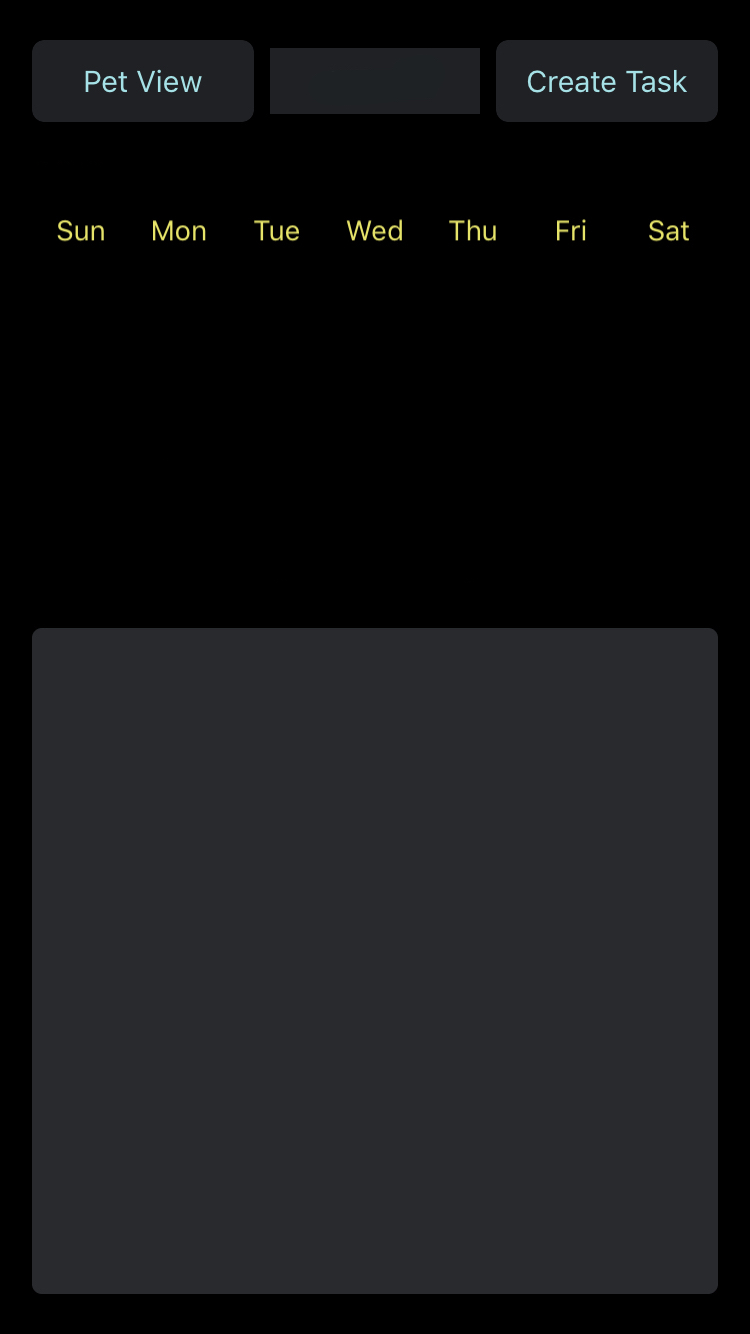
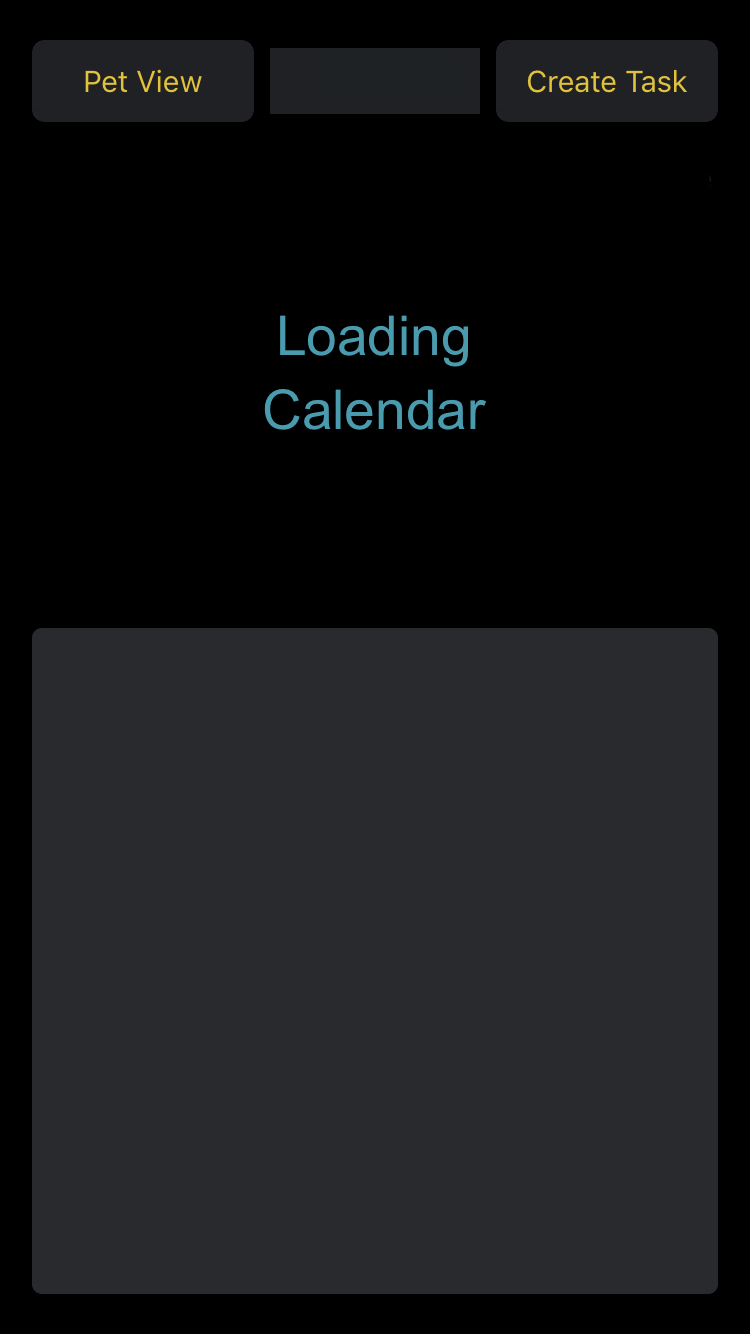
Hello

diff --git a/Planner Pet/HippoPlay/Class/View/HippoBodyStatusView.m b/Planner Pet/HippoPlay/Class/View/HippoBodyStatusView.m
@@ -216,7 +216,13 @@
         _leftBtn = [[UIButton alloc]init];
         [_leftBtn addTarget:self action:@selector(clickBtnAction:) forControlEvents:UIControlEventTouchUpInside];
 //        [_leftBtn setTitle:@"playGame" forState:UIControlStateNormal];
-        [_leftBtn setImage:[UIImage imageNamed:@"youxi_2"] forState:UIControlStateNormal];
+        UIImage * img =[UIImage imageNamed:@"youxi_2"];
+        [_leftBtn setImage: img forState:UIControlStateNormal];
+        _leftBtn.backgroundColor = [UIColor whiteColor];
+        _leftBtn.layer.cornerRadius = 10;
+        _leftBtn.clipsToBounds = YES;
+        _leftBtn.layer.borderColor = [UIColor blueColor].CGColor;
+        _leftBtn.layer.borderWidth = 3.0f;
 //        [_leftBtn setBackgroundImage:[UIImage imageNamed:@"youxi"] forState:UIControlStateNormal];
         _leftBtn.tag = 10;
     }
@@ -228,6 +234,11 @@
         [_rightBtn addTarget:self action:@selector(clickBtnAction:) forControlEvents:UIControlEventTouchUpInside];
 //        [_rightBtn setTitle:@"clear" forState:UIControlStateNormal];
         [_rightBtn setImage:[UIImage imageNamed:@"qingsao"] forState:UIControlStateNormal];
+        _rightBtn.backgroundColor = [UIColor whiteColor];
+        _rightBtn.layer.cornerRadius = 10;
+        _rightBtn.clipsToBounds = YES;
+        _rightBtn.layer.borderColor = [UIColor blueColor].CGColor;
+        _rightBtn.layer.borderWidth = 3.0f;
 //        [_rightBtn setBackgroundImage:[UIImage imageNamed:@"qingli"] forState:UIControlStateNormal];
         _rightBtn.tag = 20;
     }
@@ -241,6 +252,11 @@
         [_centerBtn addTarget:self action:@selector(clickBtnAction:) forControlEvents:UIControlEventTouchUpInside];
         //        [_rightBtn setTitle:@"clear" forState:UIControlStateNormal];
         [_centerBtn setImage:[UIImage imageNamed:@"xizao"] forState:UIControlStateNormal];
+        _centerBtn.backgroundColor = [UIColor whiteColor];
+        _centerBtn.layer.cornerRadius = 10;
+        _centerBtn.clipsToBounds = YES;
+        _centerBtn.layer.borderColor = [UIColor blueColor].CGColor;
+        _centerBtn.layer.borderWidth = 3.0f;
         //        [_rightBtn setBackgroundImage:[UIImage imageNamed:@"qingli"] forState:UIControlStateNormal];
         _centerBtn.tag = 999;
     }

diff --git a/Planner Pet/PetViewController.m b/Planner Pet/PetViewController.m
@@ -55,9 +55,6 @@
 - (void)viewDidLoad {
     [super viewDidLoad];
     // Do any additional setup after loading the view.
-    CAGradientLayer *myFkngAwsmGrad = [[CAGradientLayer alloc] init];
-    [myFkngAwsmGrad setColors:@[(id)[[UIColor blackColor] CGColor], (id)[[UIColor whiteColor] CGColor]]];
-    myFkngAwsmGrad.frame = self.view.bounds;
     self.back.layer.cornerRadius = self.back.frame.size.height/6.66;
     self.back.clipsToBounds = YES;
     
@@ -67,6 +64,9 @@
     self.dataView.layer.cornerRadius = self.dataView.frame.size.height/30;
     self.dataView.clipsToBounds = YES;
     self.dataView.backgroundColor = [UIColor colorWithRed:0 green:(120/255.0) blue:(120/255.0) alpha:0.5];
+    
+    [SVProgressHUD showInfoWithStatus:@"Double tap on Mr. Hippo and his buttons!"];
+    [SVProgressHUD dismissWithDelay:3.0];
     
 //    [self.view.layer insertSublayer:myFkngAwsmGrad atIndex:0];
 //    self.view.layer.backgroundColor = [[UIColor clearColor] CGColor];\
@@ -355,8 +355,8 @@
 - (void)configHippoPlayGame {
     HippoModel *model = [[HippoManager shareInstance] configDataWithModel];
     if (model.exp < 0.5 || model.clean <= 0) {
-        [SVProgressHUD showErrorWithStatus:@"I’m too HUNGRY to play games with u now"];
-        [SVProgressHUD dismissWithDelay:1.0];
+        [SVProgressHUD showErrorWithStatus:@"I’m too HUNGRY to play games with u now. \n\n Do some tasks and feed me cheeseburgers!"];
+        [SVProgressHUD dismissWithDelay:3.0];
         return;
     }
     UIAlertController *alertCtr = [UIAlertController alertControllerWithTitle:@"Tip" message:@"YOU HAVE FOR TOTAL 5 MINS TO EARN YOUR POINTS; EVERY FOX = 1 POINT; IF YOU HAVE GREATER THAN 10 FOXS , HIPPO MOOD+2; GREATER THAN 20, HIPPO MOOD +3 AND SO ON, TRY TO HIT AS MUCH AS YOU CAN!!" preferredStyle:UIAlertControllerStyleAlert];

diff --git a/Planner Pet/ViewController.m b/Planner Pet/ViewController.m
@@ -56,7 +56,7 @@
     
     //Calendar Stuff
     self.dateFormatter = [[NSDateFormatter alloc] init];
-    self.dateFormatter.dateFormat = @"MMM dd";
+    self.dateFormatter.dateFormat = @"h:mm a";
     
     NSDate * date = NSDate.date;
     
@@ -161,7 +161,7 @@
     }
     [[cell.contentView subviews] makeObjectsPerformSelector:@selector(removeFromSuperview)];
     
-    cell.backgroundColor = [UIColor colorWithRed:0 green:120/255.0 blue:120/255.0 alpha:0.8];
+    cell.backgroundColor = [UIColor colorWithRed:12/255.0 green:71/255.0 blue:79/255.0 alpha:1];
     
     
     NSManagedObject * task = [self.fetchedResultsController objectAtIndexPath:indexPath];
@@ -197,7 +197,7 @@
     NSDateFormatter * format = [[NSDateFormatter alloc] init];
     format.dateFormat = @"h:mm a";
     date.text = [format stringFromDate:taskDate];
-    date.textColor = [UIColor whiteColor];
+    date.textColor = [UIColor colorWithRed:170/255.0 green:170/255.0 blue:170/255.0 alpha:1];
     date.font=[date.font fontWithSize:15];
     
     [cell.contentView addSubview:date];
@@ -426,7 +426,11 @@
     
     NSArray *results = [moc executeFetchRequest:request error: nil ];
     
-    return [results count];
+    if ([results count]>0){
+        return 1;
+    }else{
+        return 0;
+    };
 }
 
 

diff --git a/Planner Pet/HippoPlay/Class/View/HippoProgressView.m b/Planner Pet/HippoPlay/Class/View/HippoProgressView.m
@@ -32,6 +32,14 @@
         self.enterActionBlock = enterActionBlock;
         [self summer_setupViews];
         [self summer_bindViewModel];
+        if (titleName==@"food"){
+            _enterImageView.backgroundColor = [UIColor whiteColor];
+            _enterImageView.layer.cornerRadius = 10;
+            _enterImageView.clipsToBounds = YES;
+            _enterImageView.layer.borderColor = [UIColor blueColor].CGColor;
+            _enterImageView.layer.borderWidth = 3.0f;
+            
+        }
         
     }
     return self;
@@ -70,6 +78,7 @@
         make.bottom.equalTo(weakSelf.mas_bottom).offset(-STSizeWithWidth(10.0));
         make.height.width.mas_equalTo(STSizeWithWidth(60.0));
     }];
+
     [self addSubview:self.enterBtn];
     [self.enterBtn mas_makeConstraints:^(MASConstraintMaker *make) {
         make.left.equalTo(weakSelf.mas_left);

diff --git a/Planner Pet/Create_Task_VC.m b/Planner Pet/Create_Task_VC.m
@@ -54,7 +54,7 @@
     
     _appDelegate = (AppDelegate *) [[UIApplication sharedApplication] delegate];
     _CDContext = _appDelegate.persistentContainer.viewContext;
-    
+    self.canSave = true;
     
     
 }
@@ -155,8 +155,9 @@
 
 - (IBAction)pushCTB:(id)sender {
     
+    
+    
     if(_date == nil || [_taskTitle.text isEqualToString:@""]){
-        
         _warningLabel.hidden = NO;
     }
     
@@ -181,7 +182,6 @@
         [_appDelegate saveContext];
         
         //Create Notification
-        
         UNMutableNotificationContent *content = [UNMutableNotificationContent new];
         content.title = [NSString localizedUserNotificationStringForKey: @"Hippo is Sad! Why you no task!?" arguments:nil];
         content.body = [NSString localizedUserNotificationStringForKey: _taskTitle.text arguments:nil];

diff --git a/Planner Pet/HippoPlay/Class/View/HippoMainView.m b/Planner Pet/HippoPlay/Class/View/HippoMainView.m
@@ -639,6 +639,7 @@
 - (UIImageView *)hippoEatToolImageView {
     if (!_hippoEatToolImageView) {
         _hippoEatToolImageView = [[UIImageView alloc]init];
+        
 //        _hippoEatToolImageView.image = [UIImage imageNamed:@"eatTool"];
     }
     return _hippoEatToolImageView;
